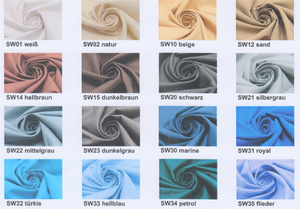
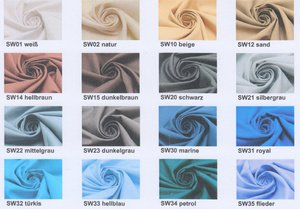
Compress images

diff --git a/resources/public/index.html b/resources/public/index.html
@@ -77,7 +77,7 @@
           <div id="scarf">
             <div id="loader" class="">
               <svg class="circle-loader" width="40" height="40" version="1.1" xmlns="http://www.w3.org/2000/svg">
-	              <circle cx="20" cy="20" r="15">
+	              <circle cx="20" cy="20" r="15"></circle>
               </svg>
             </div>
           </div>
